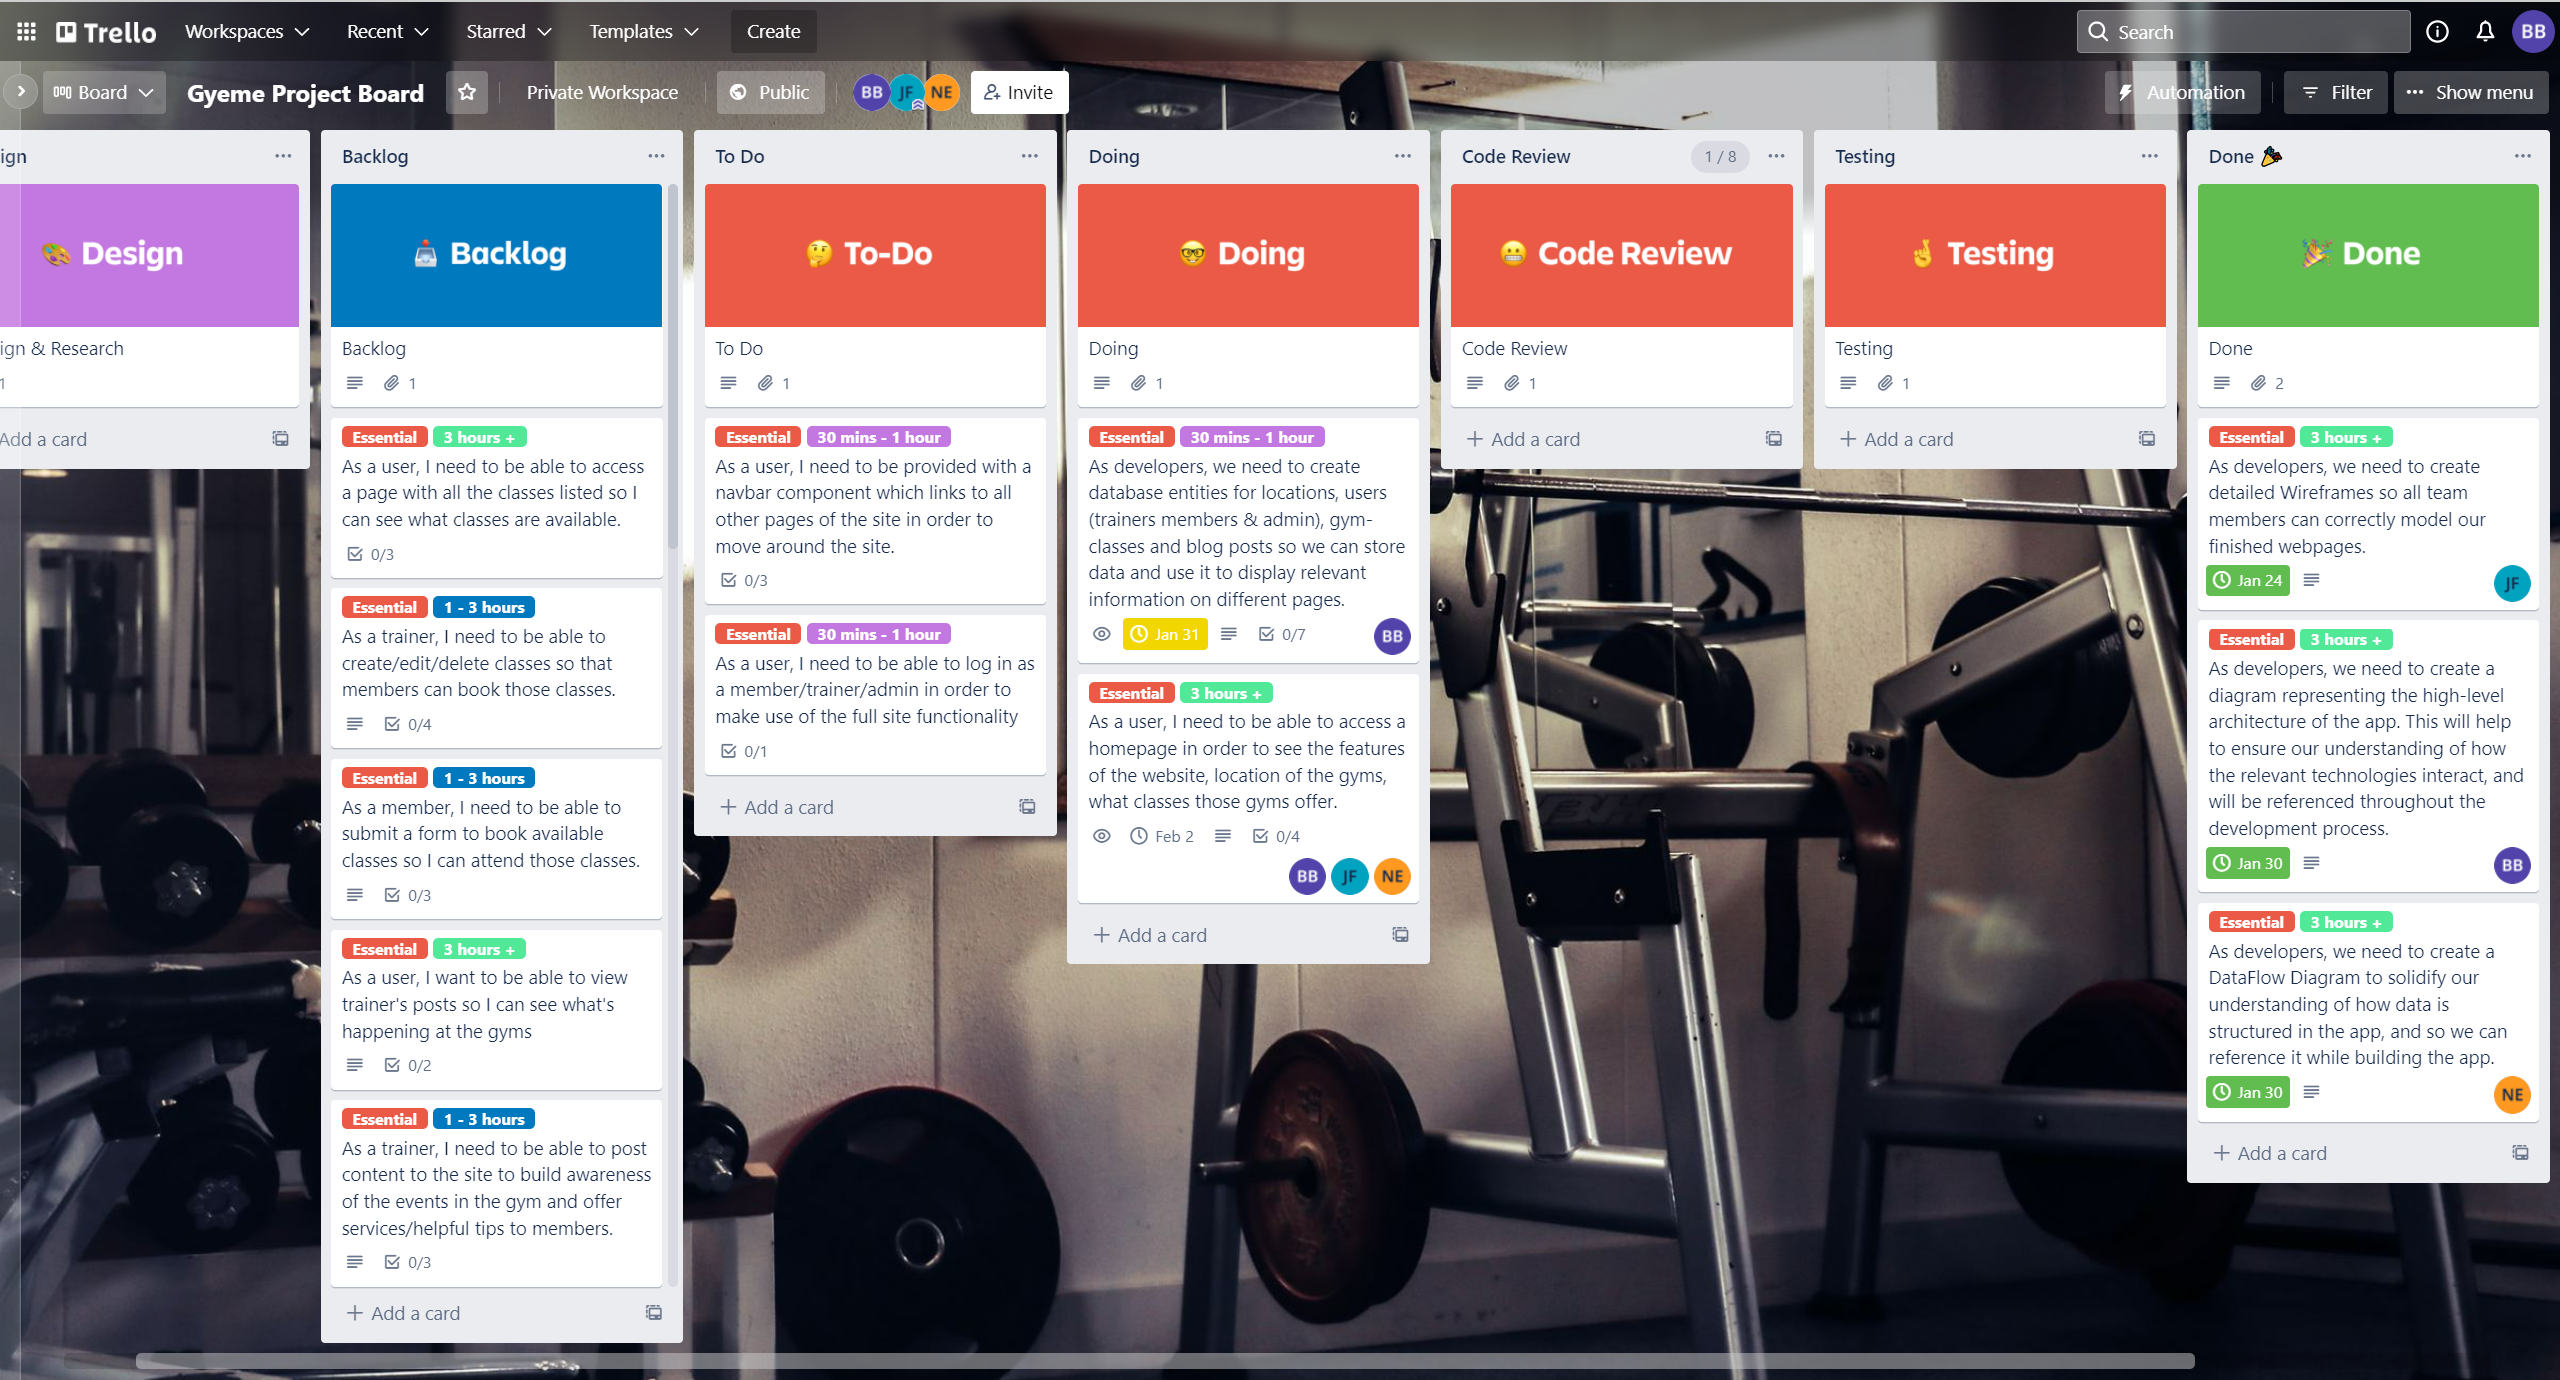
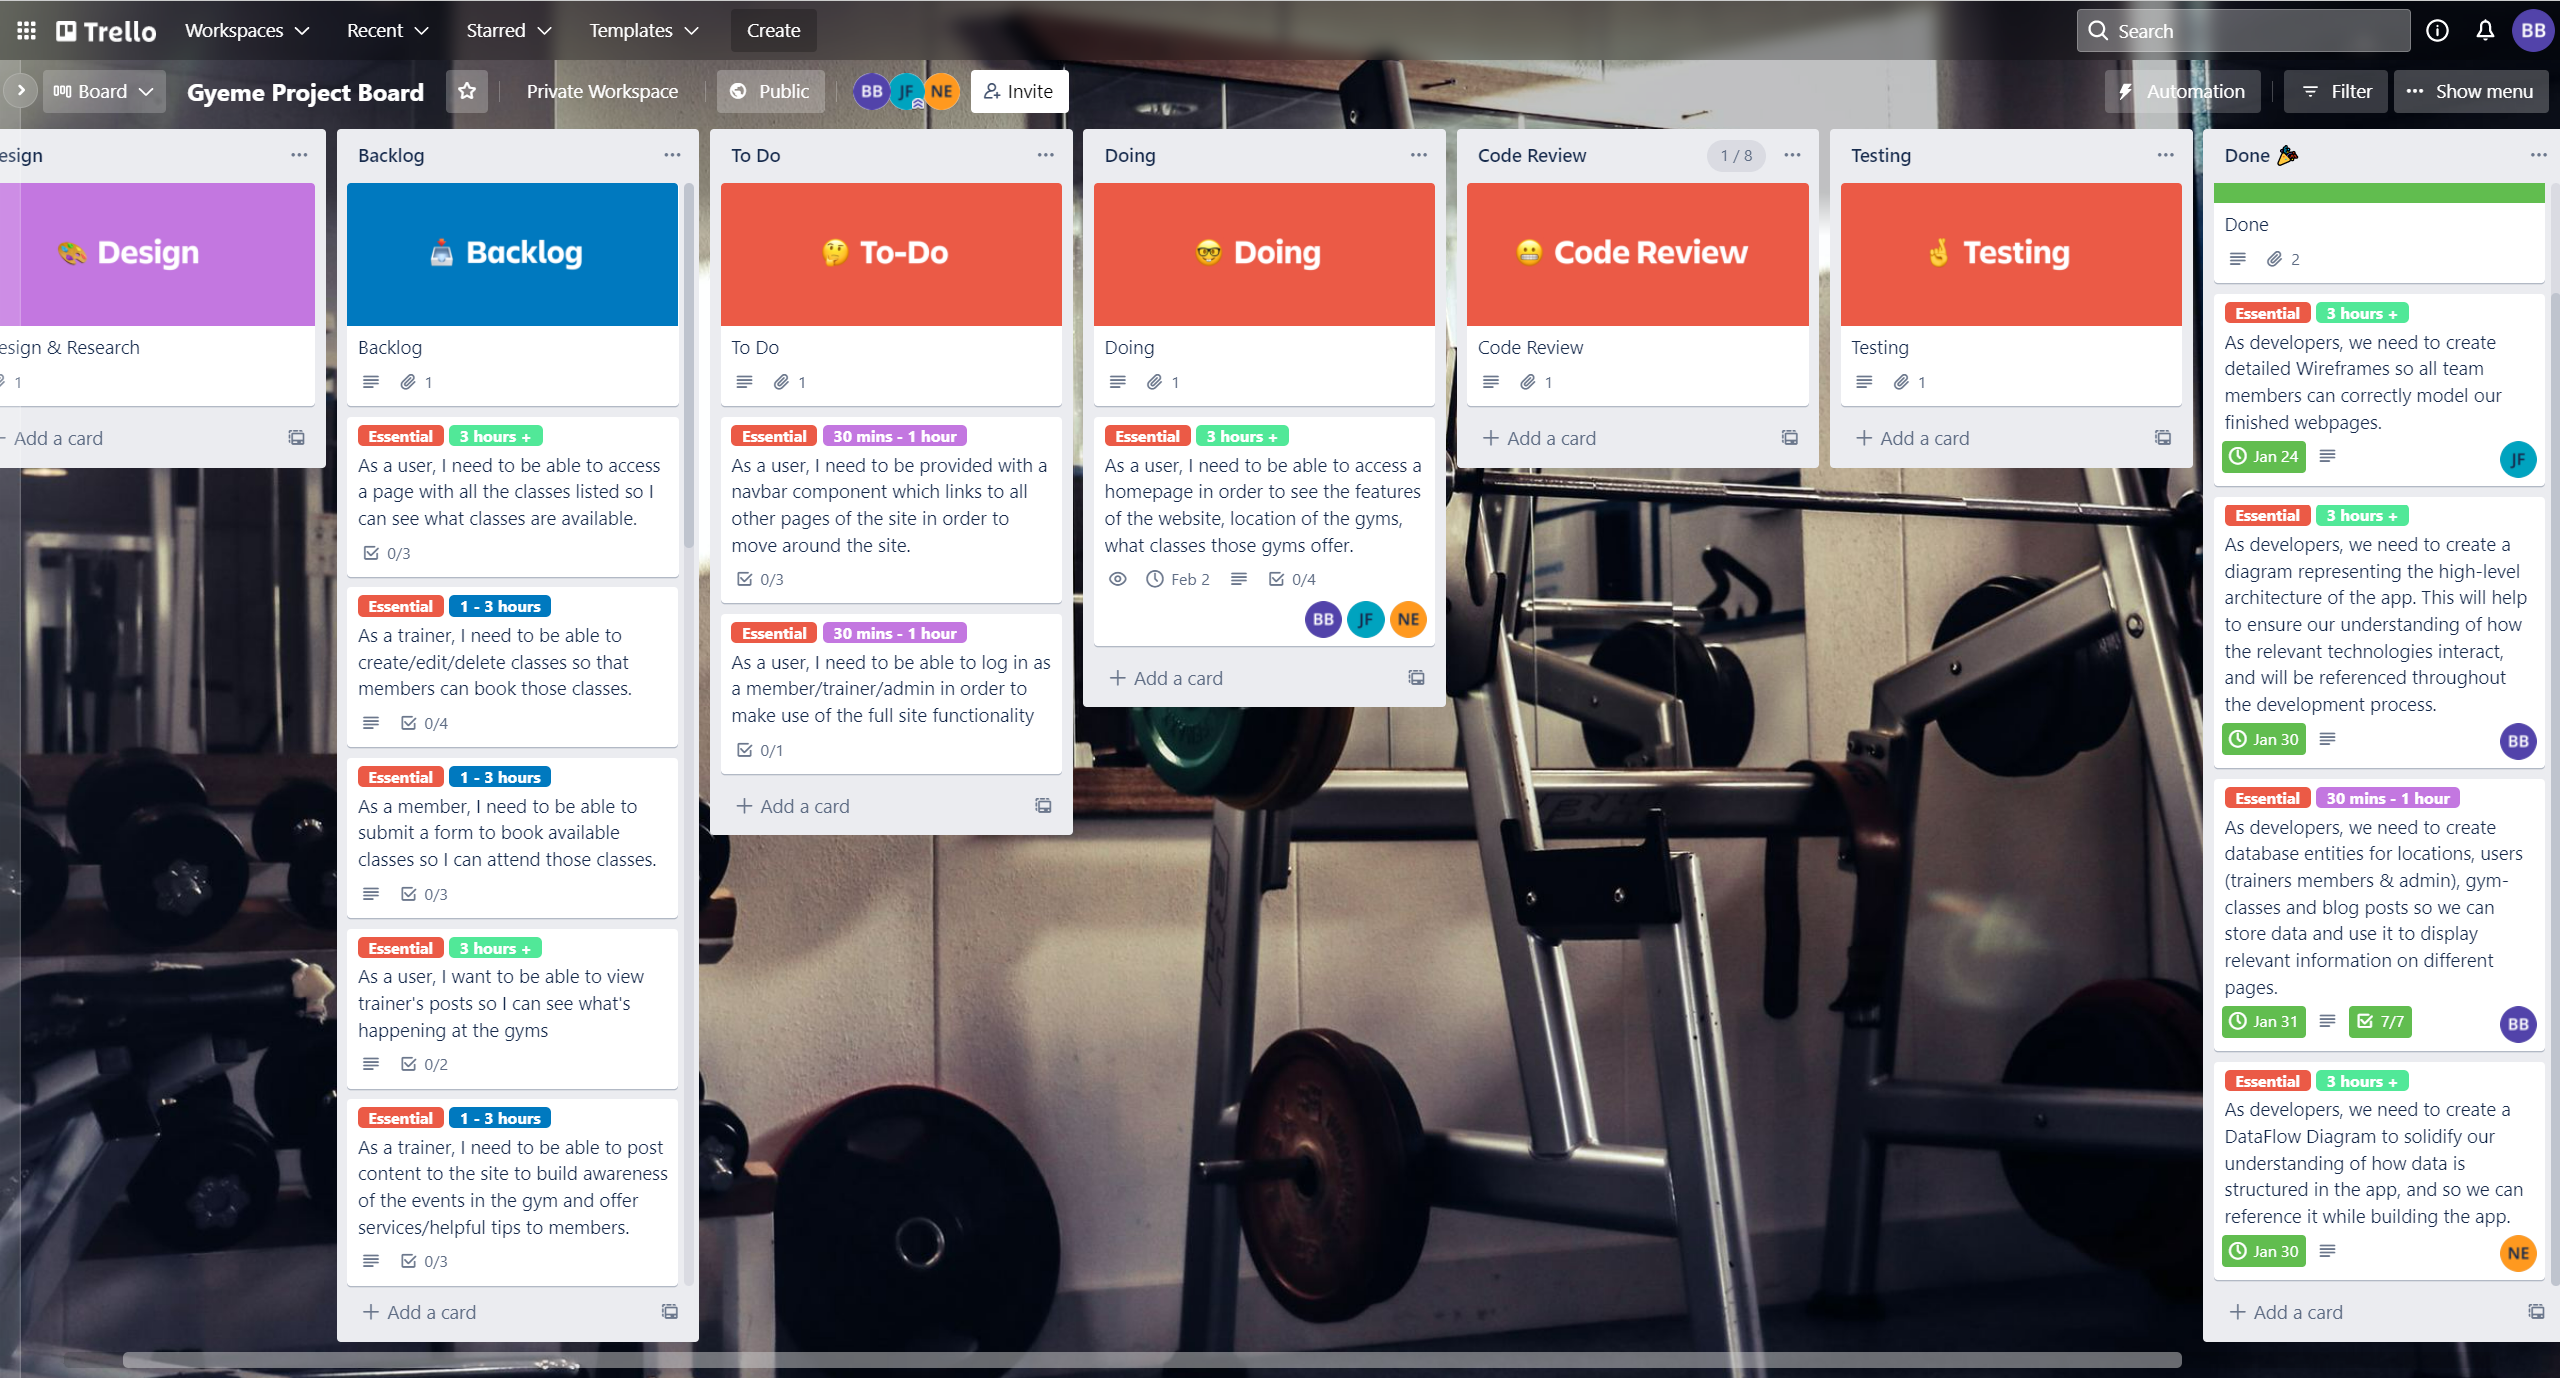
added 4th trello screenshot

diff --git a/README.md b/README.md
@@ -56,6 +56,9 @@ We have selected the Kandban planning methodology to adhere to for the duration 
 ![Screenshot_2](docs/ts2.PNG)
 ### 31/01:
 ![Screenshot_3](docs/ts3.PNG)
+### 04/02:
+![Screenshot_4](docs/ts4.PNG)
+
 
 ## R5 - Wireframes
 ![Wireframes](docs/wireframes.PNG)
